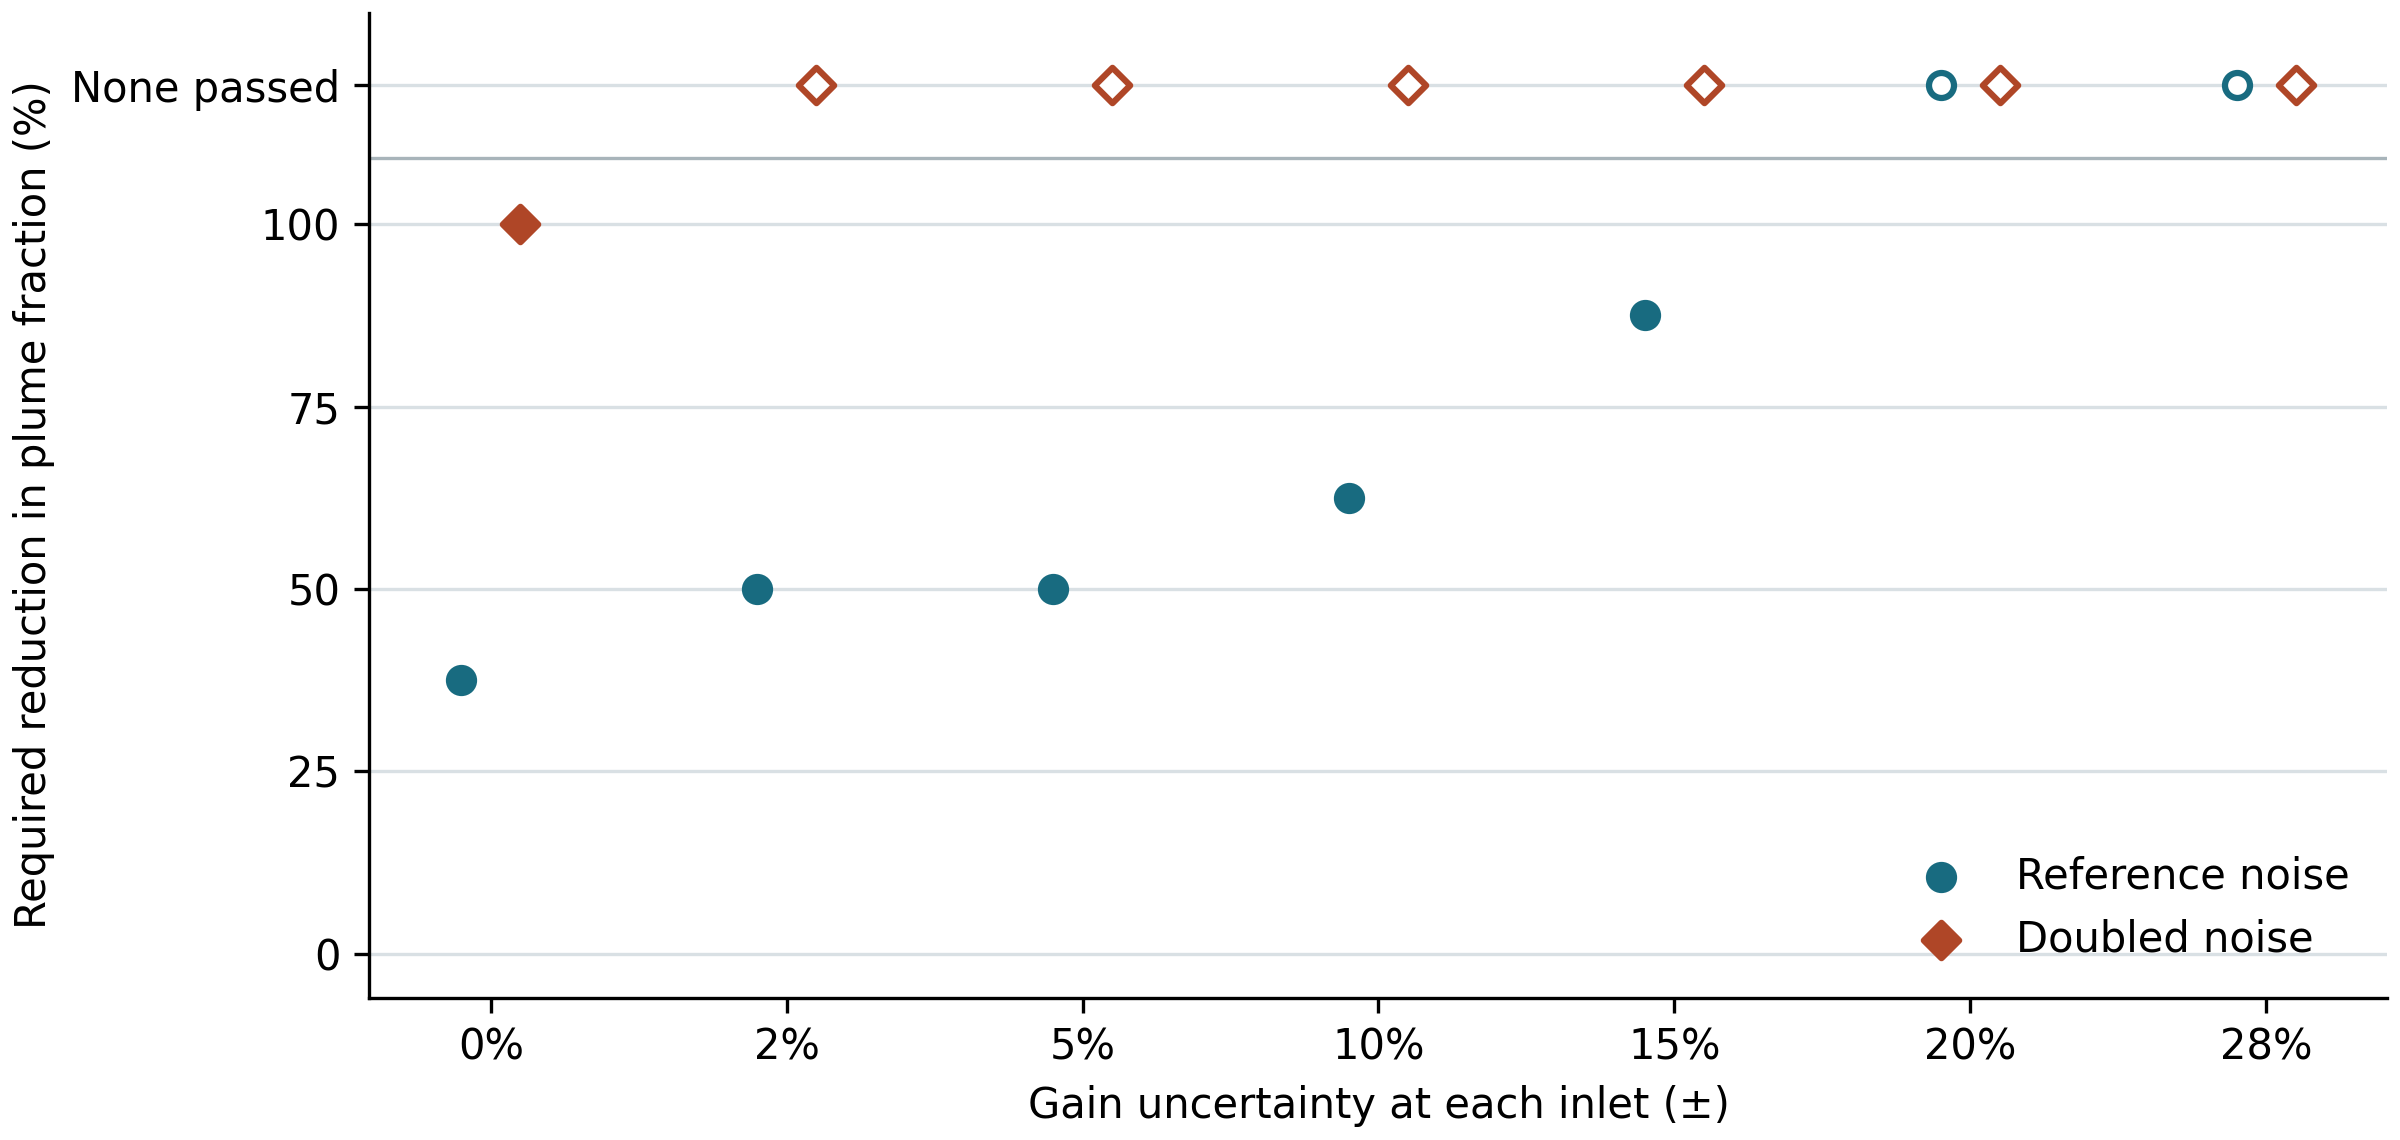
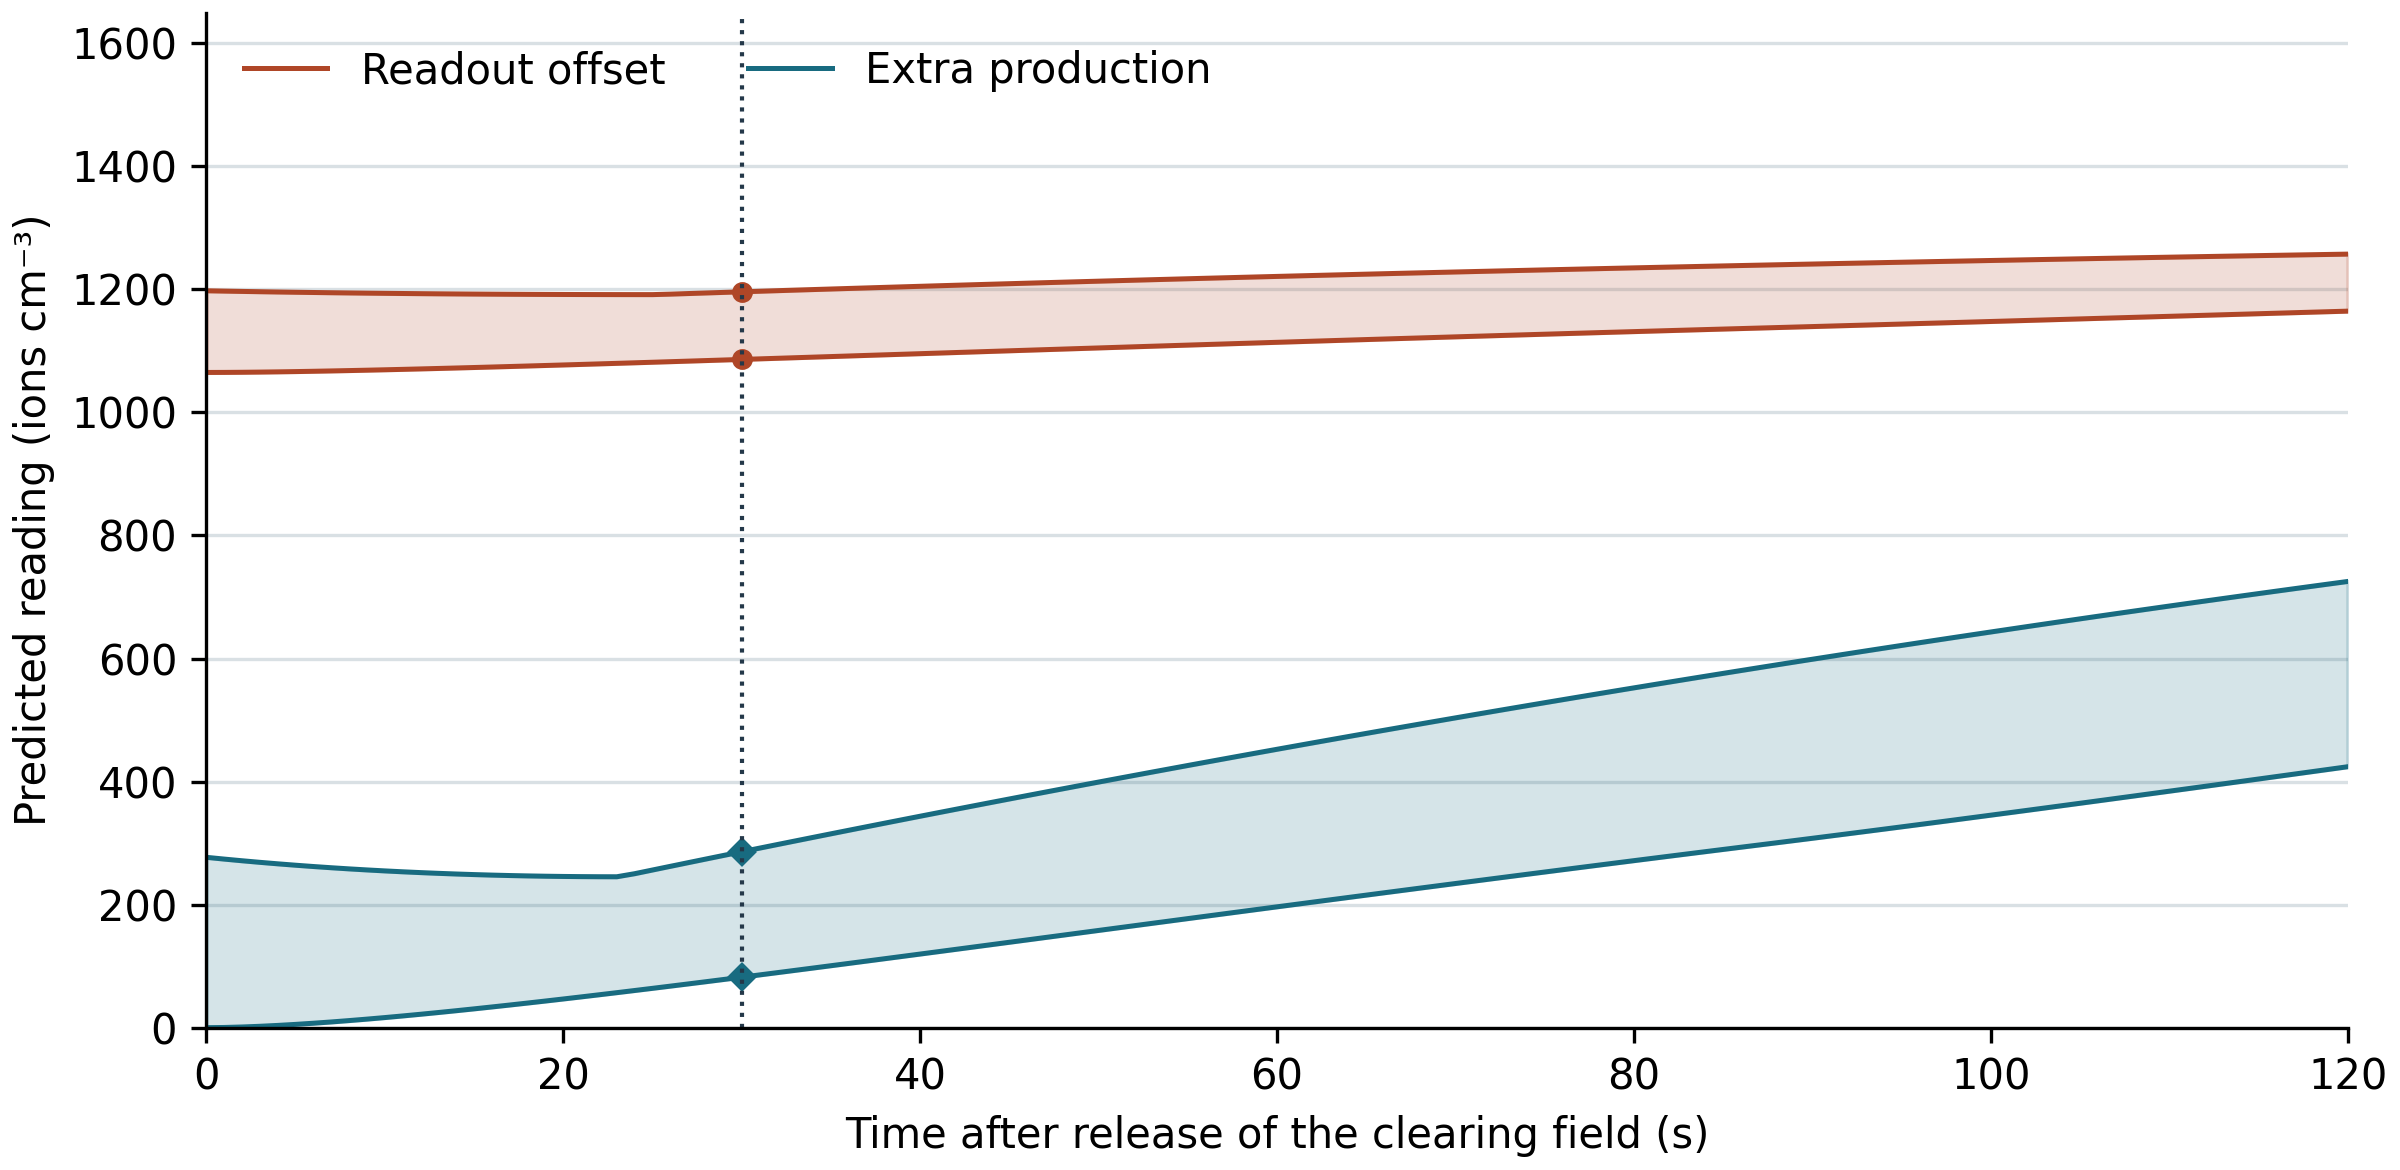
docs: publish verified CLOUD sweep data and four replottable figures

diff --git a/website/results/cloud-ion-humidity/executed_source.py b/website/results/cloud-ion-humidity/executed_source.py
@@ -1,7 +1,9 @@
 # %% [markdown]
-# At the same ion production rate, the CERN CLOUD experiment recorded many more ions in humid air than in dry air. Can the published humidity dependence of ion recombination explain the difference? Reproduce three particle-resolved ensembles, then use two fitted explanations to design a discriminating measurement. The [study report](index.md) gives the observations, provenance and interpretation.
+# At the same ion production rate, the CERN CLOUD experiment recorded many more ions in humid air than in dry air. Can the published humidity dependence of ion recombination explain the difference? Reproduce the four-humidity sweep and three matched-condition ensembles, then use two fitted explanations to design a discriminating measurement. The [study report](index.md) gives the observations, provenance and interpretation.
 #
-# ## Reproduce the three chamber conditions
+# The bundled `figure5d.csv` contains our digitization of [Franchin et al. (2015), Figure 5d](https://doi.org/10.5194/acp-15-7203-2015), used under [CC BY 3.0](https://creativecommons.org/licenses/by/3.0/). The bundled `two-inlet-design.csv` contains synthetic discrimination results using a noise reference from the [Mirme et al. counter archive](https://doi.org/10.5281/zenodo.17357061).
+#
+# ## Reproduce the humidity sweep and matched chamber conditions
 #
 # Each ion pair enters a well-mixed sampling volume. Opposite ions can recombine, and each ion can be lost at a wall. Relative humidity (RH) selects the measured recombination coefficient. The example requires a CUDA device and the complete downloadable bundle. The publication runner supplies verified numerical data for a CPU-only replot.
 #
@@ -12,6 +14,7 @@ import matplotlib.pyplot as plt
 from scripts.cloud_ion_humidity.plots import (
     comparison,
     design_figure,
+    humidity_sweep,
     recovery_figure,
 )
 
@@ -30,6 +33,19 @@ print(
 )
 
 # %% [markdown]
+# ## Five of six humid observations exceed the sensitivity band
+#
+# The sweep runs 64 independent boxes at each of three ion production rates (2, 20 and 65 pairs cm⁻³ s⁻¹) for each humidity. Compare the diamonds with the measured circles and with the steady balance. The dashed line holds recombination fixed. The solid line uses the coefficient inferred at that humidity. Shading varies recombination and first-order loss across their reported ranges.
+#
+# The downloadable numerical plot data contain all 29 measured points and bar endpoints, the 12 CUDA means and their standard errors, and the sampled curves and band edges under `humidity_sweep`.
+
+# %%
+humidity_sweep(report)
+plt.show()
+
+# %% [markdown]
+# At 0%, 7% and 40% RH, the bands contain 21 of 23 central measurements. At 70% RH, five of six measurements remain above the upper band even at their lower bars. The comparison below isolates nearly equal source rates in dry and humid air.
+#
 # ## Humidity accounts for about half the measured rise in this reconstruction
 #
 # Compare the measurement and model at each humidity in the left panel. The right panel tests the humid low-source observation against the maximum possible well-mixed concentration at the weakest reported first-order loss. The panels use different concentration scales.

diff --git a/website/results/cloud-ion-humidity/source.py b/website/results/cloud-ion-humidity/source.py
@@ -1,9 +1,9 @@
 # %% [markdown]
-# At the same ion production rate, the CERN CLOUD experiment recorded many more ions in humid air than in dry air. Can the published humidity dependence of ion recombination explain the difference? Reproduce three particle-resolved ensembles, then use two fitted explanations to design a discriminating measurement. The [study report](index.md) gives the observations, provenance and interpretation.
+# At the same ion production rate, the CERN CLOUD experiment recorded many more ions in humid air than in dry air. Can the published humidity dependence of ion recombination explain the difference? Reproduce the four-humidity sweep and three matched-condition ensembles, then use two fitted explanations to design a discriminating measurement. The [study report](index.md) gives the observations, provenance and interpretation.
 #
 # The bundled `figure5d.csv` contains our digitization of [Franchin et al. (2015), Figure 5d](https://doi.org/10.5194/acp-15-7203-2015), used under [CC BY 3.0](https://creativecommons.org/licenses/by/3.0/). The bundled `two-inlet-design.csv` contains synthetic discrimination results using a noise reference from the [Mirme et al. counter archive](https://doi.org/10.5281/zenodo.17357061).
 #
-# ## Reproduce the three chamber conditions
+# ## Reproduce the humidity sweep and matched chamber conditions
 #
 # Each ion pair enters a well-mixed sampling volume. Opposite ions can recombine, and each ion can be lost at a wall. Relative humidity (RH) selects the measured recombination coefficient. The example requires a CUDA device and the complete downloadable bundle. The publication runner supplies verified numerical data for a CPU-only replot.
 #
@@ -14,6 +14,7 @@ import matplotlib.pyplot as plt
 from scripts.cloud_ion_humidity.plots import (
     comparison,
     design_figure,
+    humidity_sweep,
     recovery_figure,
 )
 
@@ -32,6 +33,19 @@ print(
 )
 
 # %% [markdown]
+# ## Five of six humid observations exceed the sensitivity band
+#
+# The sweep runs 64 independent boxes at each of three ion production rates (2, 20 and 65 pairs cm⁻³ s⁻¹) for each humidity. Compare the diamonds with the measured circles and with the steady balance. The dashed line holds recombination fixed. The solid line uses the coefficient inferred at that humidity. Shading varies recombination and first-order loss across their reported ranges.
+#
+# The downloadable numerical plot data contain all 29 measured points and bar endpoints, the 12 CUDA means and their standard errors, and the sampled curves and band edges under `humidity_sweep`.
+
+# %%
+humidity_sweep(report)
+plt.show()
+
+# %% [markdown]
+# At 0%, 7% and 40% RH, the bands contain 21 of 23 central measurements. At 70% RH, five of six measurements remain above the upper band even at their lower bars. The comparison below isolates nearly equal source rates in dry and humid air.
+#
 # ## Humidity accounts for about half the measured rise in this reconstruction
 #
 # Compare the measurement and model at each humidity in the left panel. The right panel tests the humid low-source observation against the maximum possible well-mixed concentration at the weakest reported first-order loss. The panels use different concentration scales.
